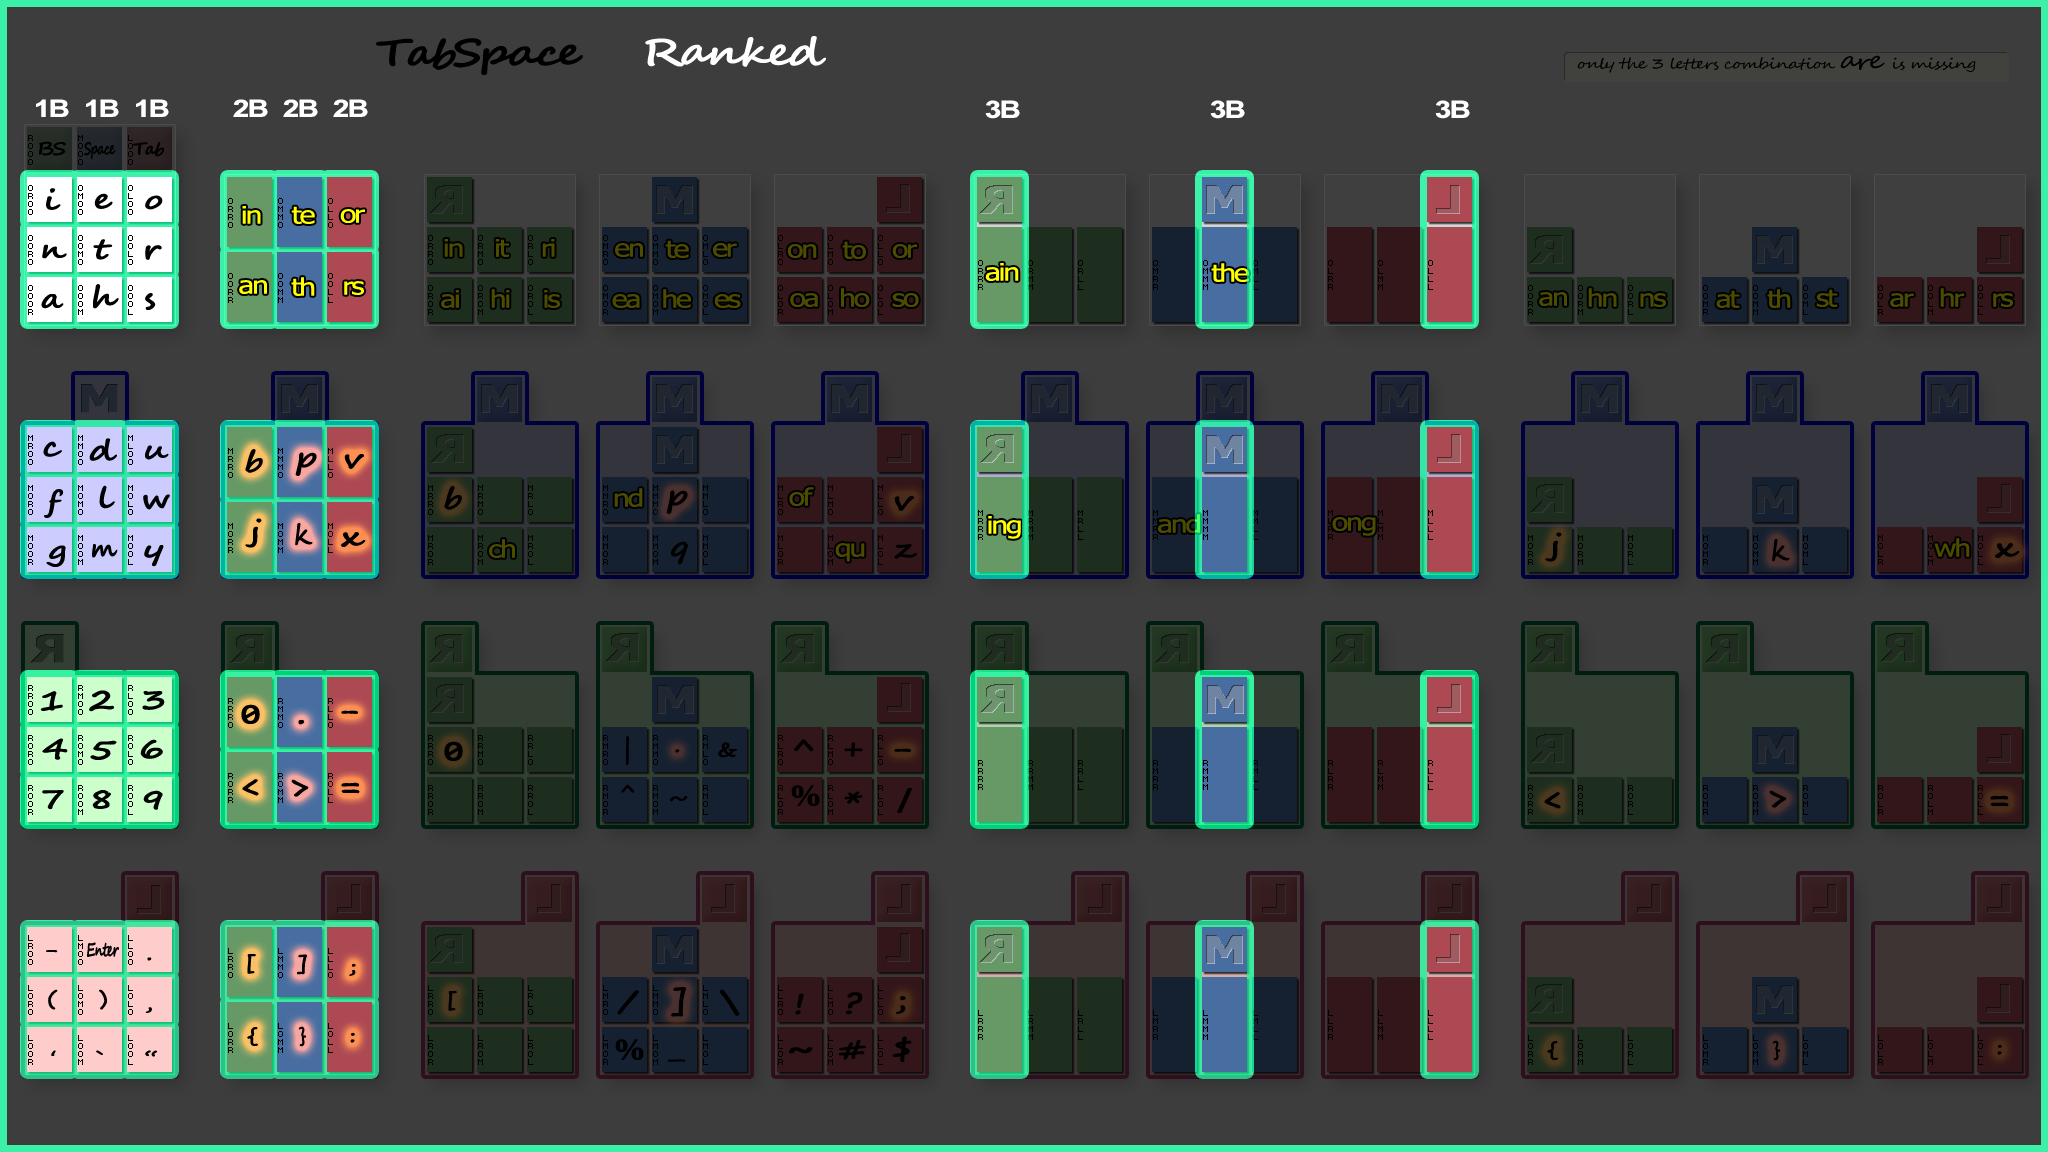
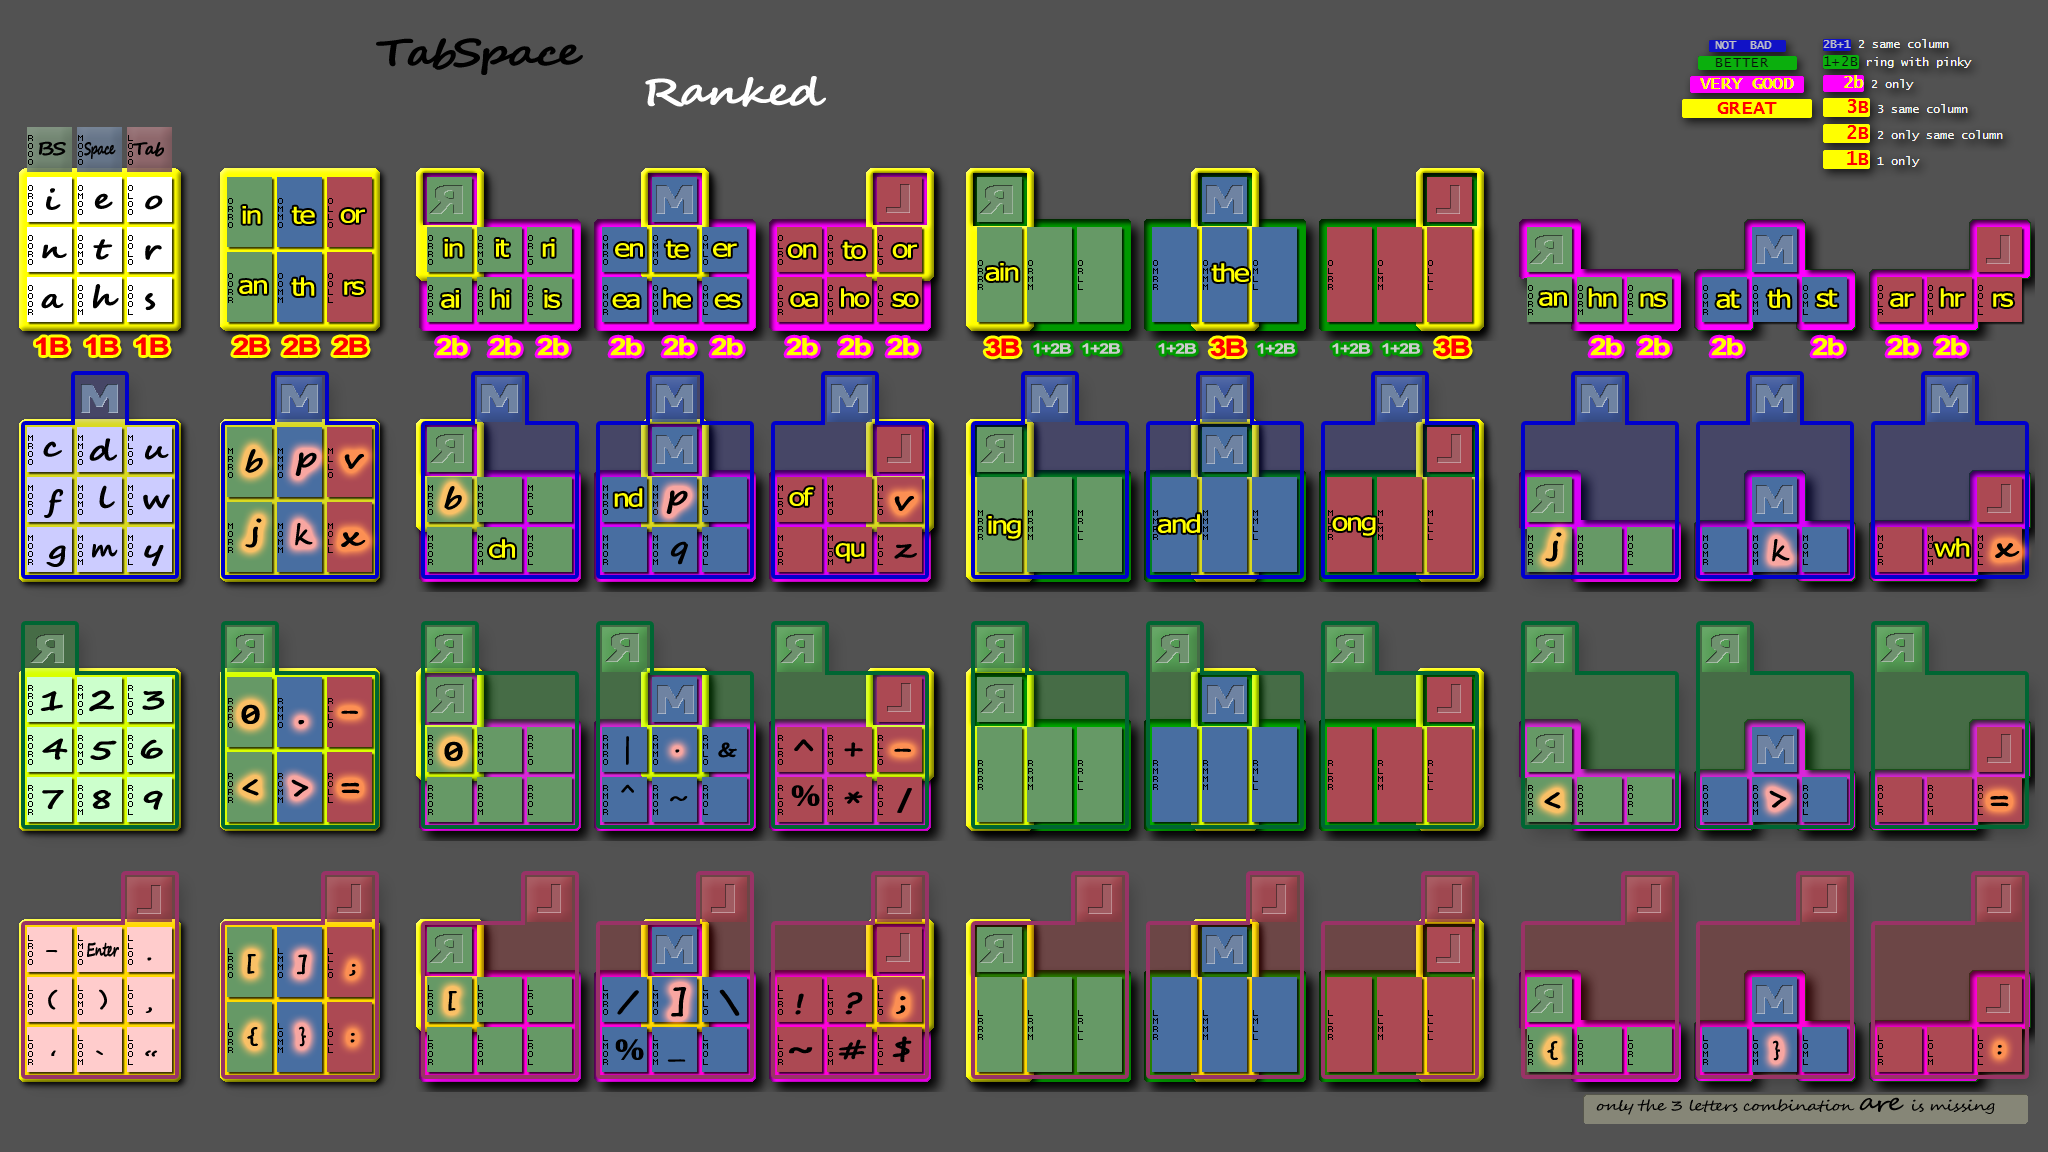
3x3 Rank revised

diff --git a/index.html b/index.html
@@ -463,7 +463,7 @@ num   00ll = SCROLL_LOCK
    </p>
    <!-- }}} -->
    <!-- supported_4x4 {{{ -->
-   <div class="fold_title" onclick='toggle_div(this,"supported_4x4");'><em>4x4 chord set</em> <span class="wh2">1;</span></div>
+   <div class="fold_title" onclick='toggle_div(this,"supported_4x4");'><em>4x4 chord set</em> <span class="wh2">1</span></div>
   <div id="div_supported_4x4" class="collapsed">
    <em>255 = (4^4 - 1)</em>
    If the configurator supports them all, some are easier to use than others.
@@ -502,18 +502,14 @@ num   00ll = SCROLL_LOCK
 </pre>
 
 <pre class="pre_card" style="float:left; clear:left; margin-top:1em !important; width:20em !important; vertical-align:middle;">
-<span class="ng">    </span> 3 random buttons
-<span class="ng">  3X</span> 3 buttons - on a diagonal
-
-<span class="nb">1+2B</span> 3 buttons - 2 on same column
-
-<span class="bt">  2b</span> 2 buttons only
-
-<span class="vg">2B+1</span> 2 buttons - same column
-
-<span class="gr">  3B</span> 3 buttons - same column
-<span class="gr">  2B</span> 2 buttons - same column
-<span class="gr">  1B</span> 1 button
+<span class="ng">    </span> random
+<span class="ng">  3X</span> diagonal
+<span class="nb">2B+1</span> 2 same column
+<span class="bt">1+2B</span> ring with pinky
+<span class="vg">  2b</span> 2 only
+<span class="gr">  3B</span> 3 same column
+<span class="gr">  2B</span> 2 only same column
+<span class="gr">  1B</span> 1 only
 </pre>
 </div>
 <!-- }}} -->
@@ -521,15 +517,15 @@ num   00ll = SCROLL_LOCK
 <pre class="pre_card" style="float:right;"
 ><em style="font-size:200%;">O</em><br
 ><div class="gr"><span class="oo">O</span><span class="rr">R</span><span class="rr">R</span> 2B</div
-><div class="bt"><span class="oo">O</span><span class="rr">R</span><span class="mm">M</span> 2b</div
-><div class="bt"><span class="oo">O</span><span class="rr">R</span><span class="ll">L</span> 2b</div
+><div class="vg"><span class="oo">O</span><span class="rr">R</span><span class="mm">M</span> 2b</div
+><div class="vg"><span class="oo">O</span><span class="rr">R</span><span class="ll">L</span> 2b</div
 ><div class="gr"><span class="oo">O</span><span class="rr">R</span><span class="oo">O</span> 1B</div
-><div class="bt"><span class="oo">O</span><span class="mm">M</span><span class="rr">R</span> 2b</div
+><div class="vg"><span class="oo">O</span><span class="mm">M</span><span class="rr">R</span> 2b</div
 ><div class="gr"><span class="oo">O</span><span class="mm">M</span><span class="mm">M</span> 2B</div
-><div class="bt"><span class="oo">O</span><span class="mm">M</span><span class="ll">L</span> 2b</div
+><div class="vg"><span class="oo">O</span><span class="mm">M</span><span class="ll">L</span> 2b</div
 ><div class="gr"><span class="oo">O</span><span class="mm">M</span><span class="oo">O</span> 1B</div
-><div class="bt"><span class="oo">O</span><span class="ll">L</span><span class="rr">R</span> 2b</div
-><div class="bt"><span class="oo">O</span><span class="ll">L</span><span class="mm">M</span> 2b</div
+><div class="vg"><span class="oo">O</span><span class="ll">L</span><span class="rr">R</span> 2b</div
+><div class="vg"><span class="oo">O</span><span class="ll">L</span><span class="mm">M</span> 2b</div
 ><div class="gr"><span class="oo">O</span><span class="ll">L</span><span class="ll">L</span> 2B</div
 ><div class="gr"><span class="oo">O</span><span class="ll">L</span><span class="oo">O</span> 1B</div
 ><div class="gr"><span class="oo">O</span><span class="oo">O</span><span class="rr">R</span> 1B</div
@@ -541,62 +537,62 @@ num   00ll = SCROLL_LOCK
 <pre class="pre_card" style="float:left; clear:both;"
 ><em style="font-size:200%;">R</em><br
 ><div class="gr"><span class="rr">R</span><span class="rr">R</span><span class="rr">R</span>   3B</div
-><div class="vg"><span class="rr">R</span><span class="rr">R</span><span class="mm">M</span> 2B+1</div
-><div class="vg"><span class="rr">R</span><span class="rr">R</span><span class="ll">L</span> 2B+1</div
+><div class="nb"><span class="rr">R</span><span class="rr">R</span><span class="mm">M</span> 2B+1</div
+><div class="nb"><span class="rr">R</span><span class="rr">R</span><span class="ll">L</span> 2B+1</div
 ><div class="gr"><span class="rr">R</span><span class="rr">R</span><span class="oo">O</span>   2B</div
 ><div class="ng"><span class="rr">R</span><span class="mm">M</span><span class="rr">R</span>     </div
-><div class="nb"><span class="rr">R</span><span class="mm">M</span><span class="mm">M</span> 1+2B</div
+><div class="bt"><span class="rr">R</span><span class="mm">M</span><span class="mm">M</span> 1+2B</div
 ><div class="ng"><span class="rr">R</span><span class="mm">M</span><span class="ll">L</span>   3X</div
-><div class="bt"><span class="rr">R</span><span class="mm">M</span><span class="oo">O</span>   2b</div
+><div class="vg"><span class="rr">R</span><span class="mm">M</span><span class="oo">O</span>   2b</div
 ><div class="ng"><span class="rr">R</span><span class="ll">L</span><span class="rr">R</span>     </div
 ><div class="ng"><span class="rr">R</span><span class="ll">L</span><span class="mm">M</span>     </div
-><div class="nb"><span class="rr">R</span><span class="ll">L</span><span class="ll">L</span> 1+2B</div
-><div class="bt"><span class="rr">R</span><span class="ll">L</span><span class="oo">O</span>   2b</div
-><div class="bt"><span class="rr">R</span><span class="oo">O</span><span class="rr">R</span>   2b</div
-><div class="bt"><span class="rr">R</span><span class="oo">O</span><span class="mm">M</span>   2b</div
-><div class="bt"><span class="rr">R</span><span class="oo">O</span><span class="ll">L</span>   2b</div
+><div class="bt"><span class="rr">R</span><span class="ll">L</span><span class="ll">L</span> 1+2B</div
+><div class="vg"><span class="rr">R</span><span class="ll">L</span><span class="oo">O</span>   2b</div
+><div class="vg"><span class="rr">R</span><span class="oo">O</span><span class="rr">R</span>   2b</div
+><div class="vg"><span class="rr">R</span><span class="oo">O</span><span class="mm">M</span>   2b</div
+><div class="vg"><span class="rr">R</span><span class="oo">O</span><span class="ll">L</span>   2b</div
 ><div class="gr"><span class="rr">R</span><span class="oo">O</span><span class="oo">O</span>   1B</div>
 
 </pre> <!-- }}} -->
 <!-- M {{{ -->
 <pre class="pre_card" style="float:left; margin-left:11px !important;"
 ><em style="font-size:200%;">M</em><br
-><div class="nb"><span class="mm">M</span><span class="rr">R</span><span class="rr">R</span> 1+2B</div
+><div class="bt"><span class="mm">M</span><span class="rr">R</span><span class="rr">R</span> 1+2B</div
 ><div class="ng"><span class="mm">M</span><span class="rr">R</span><span class="mm">M</span>     </div
 ><div class="ng"><span class="mm">M</span><span class="rr">R</span><span class="ll">L</span>     </div
-><div class="bt"><span class="mm">M</span><span class="rr">R</span><span class="oo">O</span>   2b</div
-><div class="vg"><span class="mm">M</span><span class="mm">M</span><span class="rr">R</span> 2B+1</div
+><div class="vg"><span class="mm">M</span><span class="rr">R</span><span class="oo">O</span>   2b</div
+><div class="nb"><span class="mm">M</span><span class="mm">M</span><span class="rr">R</span> 2B+1</div
 ><div class="gr"><span class="mm">M</span><span class="mm">M</span><span class="mm">M</span>   3B</div
-><div class="vg"><span class="mm">M</span><span class="mm">M</span><span class="ll">L</span> 2B+1</div
+><div class="nb"><span class="mm">M</span><span class="mm">M</span><span class="ll">L</span> 2B+1</div
 ><div class="gr"><span class="mm">M</span><span class="mm">M</span><span class="oo">O</span>   2B</div
 ><div class="ng"><span class="mm">M</span><span class="ll">L</span><span class="rr">R</span>     </div
 ><div class="ng"><span class="mm">M</span><span class="ll">L</span><span class="mm">M</span>     </div
-><div class="nb"><span class="mm">M</span><span class="ll">L</span><span class="ll">L</span> 1+2B</div
-><div class="bt"><span class="mm">M</span><span class="ll">L</span><span class="oo">O</span>   2b</div
-><div class="bt"><span class="mm">M</span><span class="oo">O</span><span class="rr">R</span>   2b</div
-><div class="bt"><span class="mm">M</span><span class="oo">O</span><span class="mm">M</span>   2b</div
-><div class="bt"><span class="mm">M</span><span class="oo">O</span><span class="ll">L</span>   2b</div
+><div class="bt"><span class="mm">M</span><span class="ll">L</span><span class="ll">L</span> 1+2B</div
+><div class="vg"><span class="mm">M</span><span class="ll">L</span><span class="oo">O</span>   2b</div
+><div class="vg"><span class="mm">M</span><span class="oo">O</span><span class="rr">R</span>   2b</div
+><div class="vg"><span class="mm">M</span><span class="oo">O</span><span class="mm">M</span>   2b</div
+><div class="vg"><span class="mm">M</span><span class="oo">O</span><span class="ll">L</span>   2b</div
 ><div class="gr"><span class="mm">M</span><span class="oo">O</span><span class="oo">O</span>   1B</div>
 
 </pre> <!-- }}} -->
 <!-- L {{{ -->
 <pre class="pre_card" style="float:right;"
 ><em style="font-size:200%;">L</em><br
-><div class="nb"><span class="ll">L</span><span class="rr">R</span><span class="rr">R</span> 1+2B</div
+><div class="bt"><span class="ll">L</span><span class="rr">R</span><span class="rr">R</span> 1+2B</div
 ><div class="ng"><span class="ll">L</span><span class="rr">R</span><span class="mm">M</span>     </div
 ><div class="ng"><span class="ll">L</span><span class="rr">R</span><span class="ll">L</span>     </div
-><div class="bt"><span class="ll">L</span><span class="rr">R</span><span class="oo">O</span>   2b</div
+><div class="vg"><span class="ll">L</span><span class="rr">R</span><span class="oo">O</span>   2b</div
 ><div class="ng"><span class="ll">L</span><span class="mm">M</span><span class="rr">R</span>   3X</div
-><div class="nb"><span class="ll">L</span><span class="mm">M</span><span class="mm">M</span> 1+2B</div
+><div class="bt"><span class="ll">L</span><span class="mm">M</span><span class="mm">M</span> 1+2B</div
 ><div class="ng"><span class="ll">L</span><span class="mm">M</span><span class="ll">L</span>     </div
-><div class="bt"><span class="ll">L</span><span class="mm">M</span><span class="oo">O</span>   2b</div
-><div class="vg"><span class="ll">L</span><span class="ll">L</span><span class="rr">R</span> 2B+1</div
-><div class="vg"><span class="ll">L</span><span class="ll">L</span><span class="mm">M</span> 2B+1</div
+><div class="vg"><span class="ll">L</span><span class="mm">M</span><span class="oo">O</span>   2b</div
+><div class="nb"><span class="ll">L</span><span class="ll">L</span><span class="rr">R</span> 2B+1</div
+><div class="nb"><span class="ll">L</span><span class="ll">L</span><span class="mm">M</span> 2B+1</div
 ><div class="gr"><span class="ll">L</span><span class="ll">L</span><span class="ll">L</span>   3B</div
 ><div class="gr"><span class="ll">L</span><span class="ll">L</span><span class="oo">O</span>   2B</div
-><div class="bt"><span class="ll">L</span><span class="oo">O</span><span class="rr">R</span>   2b</div
-><div class="bt"><span class="ll">L</span><span class="oo">O</span><span class="mm">M</span>   2b</div
-><div class="bt"><span class="ll">L</span><span class="oo">O</span><span class="ll">L</span>   2b</div
+><div class="vg"><span class="ll">L</span><span class="oo">O</span><span class="rr">R</span>   2b</div
+><div class="vg"><span class="ll">L</span><span class="oo">O</span><span class="mm">M</span>   2b</div
+><div class="vg"><span class="ll">L</span><span class="oo">O</span><span class="ll">L</span>   2b</div
 ><div class="gr"><span class="ll">L</span><span class="oo">O</span><span class="oo">O</span>   1B</div>
 
 </pre> <!-- }}} -->

diff --git a/stylesheets/twiddler.css b/stylesheets/twiddler.css
@@ -243,9 +243,9 @@
 /* }}} */
 /* COLORS {{{ */
 .ng {  color:#DDD; background-color:#000; }
-.nb {  color:#FFF; background-color:#00A; }
+.nb {  color:#FFF; background-color:#00F; }
 .bt {  color:#000; background-color:#0C0; }
-.vg {  color:#000; background-color:#F0F; }
+.vg {  color:#FF0; background-color:#F0F; }
 .gr {  color:#F00; background-color:#FF0; }
 
 /* }}} */
@@ -254,7 +254,7 @@
 .gr { opacity:1.0; filter:alpha(opacity=100); }
 .nb { opacity:0.7; filter:alpha(opacity= 70); }
 .ng { opacity:1.0; filter:alpha(opacity=100); }
-.vg { opacity:0.8; filter:alpha(opacity= 80); }
+.vg { opacity:1.0; filter:alpha(opacity= 80); }
 
 /* }}} */
 /* SHADOW {{{ */
